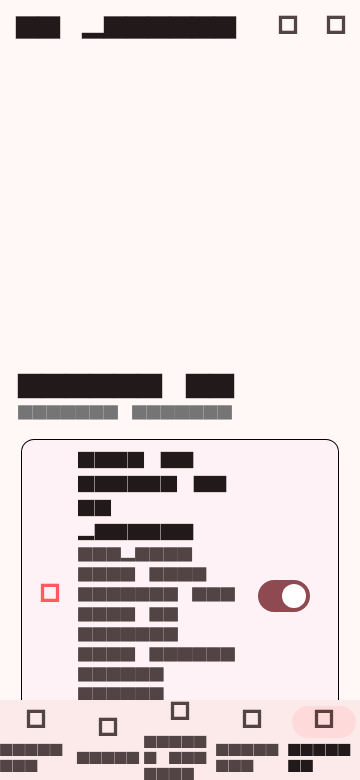
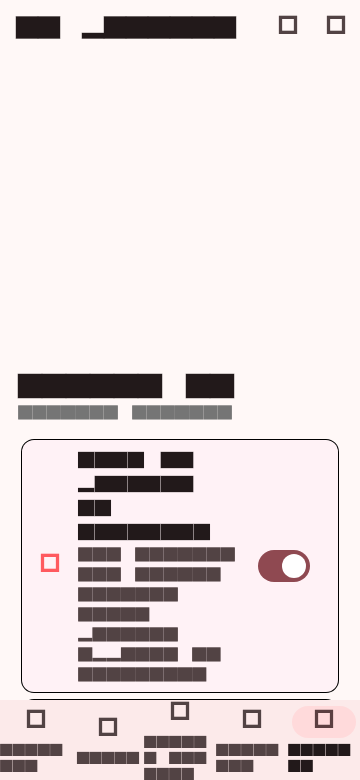
fix(ci): restore 6-digit OTP and update Flutter UI tests

diff --git a/lib/services/maplov_repository.dart b/lib/services/maplov_repository.dart
@@ -1336,7 +1336,9 @@ class MapLovRepository {
             (profile) => MatchItem(
               id: 'demo-match-${profile.id}',
               profile: profile,
-              date: DateTime.now(),
+              // Demo fixtures must stay deterministic for screenshots and
+              // offline previews. Live matches keep their database timestamp.
+              date: DateTime.utc(2026, 8, 4),
             ),
           )
           .toList();

diff --git a/lib/shared/widgets/app_widgets.dart b/lib/shared/widgets/app_widgets.dart
@@ -157,7 +157,7 @@ class _MapLovNavigationBar extends StatelessWidget {
         NavigationDestination(
           icon: const Icon(Icons.favorite_border),
           selectedIcon: const Icon(Icons.favorite),
-          label: context.tr('Matches'),
+          label: context.tr('Likes & Matches'),
         ),
         NavigationDestination(
           icon: StreamBuilder<int>(
